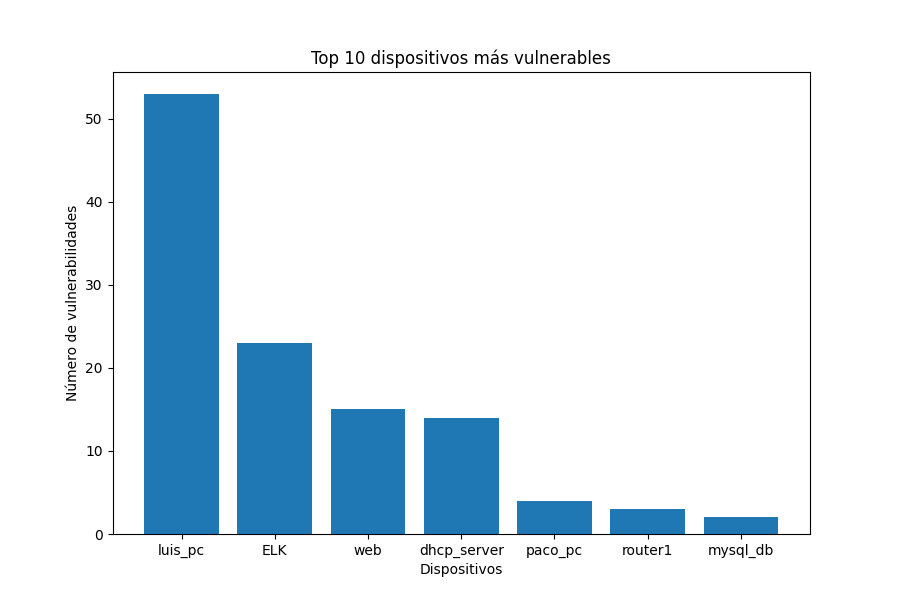
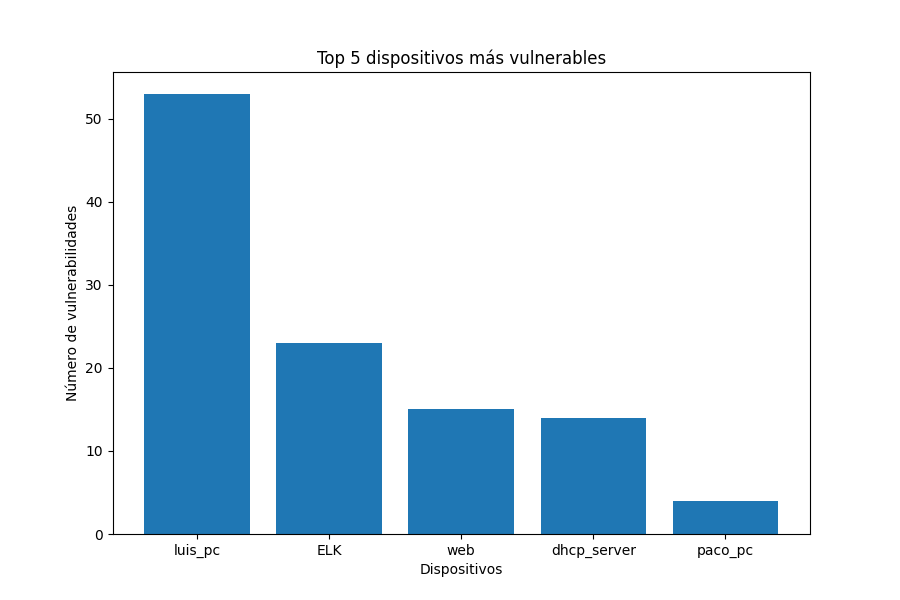
ultimos cambios

Changed region(s): [[0.3422, 0.57, 0.8711, 0.93], [0.1556, 0.15, 0.3111, 0.93], [0.3422, 0.09, 0.6844, 0.12]]

diff --git a/Templates/top_dispositivos.html b/Templates/top_dispositivos.html
@@ -1,11 +1,11 @@
 <!DOCTYPE html>
 <html>
 <head>
-	<title>Top 10 dispositivos más vulnerables</title>
+	<title>Top 5 dispositivos más vulnerables</title>
 </head>
 <body>
-	<h1>Top 10 dispositivos más vulnerables</h1>
-	<p>A continuación se muestra un gráfico de barras con los 10 dispositivos más vulnerables:</p>
-	<img src="/static/top_dispositivos.png" alt="Top 10 dispositivos más vulnerables">
+	<h1>Top 5 dispositivos más vulnerables</h1>
+	<p>A continuación se muestra un gráfico de barras con los 5 dispositivos más vulnerables:</p>
+	<img src="/static/top_dispositivos.png" alt="Top 5 dispositivos más vulnerables">
 </body>
 </html>

diff --git a/Templates/home.html b/Templates/home.html
@@ -12,7 +12,7 @@
 		<li><a href="{{ url_for('top_peligrosos') }}">Top Peligrosos</a></li>
 		<li><a href="{{ url_for('ultimas_vulnerabilidades') }}">Ultimas vulnerabilidades</a></li>
 		<li><a href="{{ url_for('cmi') }}">Cuadro de mandos CMI</a></li>
-
+		<li><a href="{{ url_for('login') }}">Cerrar sesion</a></li>
 	</ul>
 </body>
 </html>

diff --git a/main.py b/main.py
@@ -88,7 +88,6 @@ TRATAMIENTO DE USUARIOS
 def usuarios_bd():
     con = sqlite3.connect('p1.db')
     cursor = con.cursor()
-    cursor.execute("DROP TABLE IF  EXISTS users")
     cursor.execute("CREATE TABLE IF NOT EXISTS users (id INTEGER PRIMARY KEY AUTOINCREMENT,username TEXT UNIQUE NOT NULL,password TEXT NOT NULL)")
     con.close()
 
@@ -146,6 +145,9 @@ dispositivos_y_pred = regr.predict(dispositivos_x_predict)
 print("Mean squared error: %.2f" % mean_squared_error(dispositivos_y_predict, dispositivos_y_pred))
 
 # Plot outputs
+plt.title("Regresion lineal")
+plt.xlabel("Servicios inseguros")
+plt.ylabel("¿Es peligroso?")
 plt.scatter(dispositivos_x_predict, dispositivos_y_predict, color="black")
 plt.plot(dispositivos_x_predict, dispositivos_y_pred, color="blue", linewidth=3)
 plt.xticks(())
@@ -322,7 +324,7 @@ def top_dispositivos():
     con = sqlite3.connect("p1.db")
     cursor = con.cursor()
     cursor.execute(
-        "SELECT dispositivo, servicios_inseguros + vulnerabilidades_detectadas AS servicios_vulnerables FROM analisis GROUP BY dispositivo ORDER BY servicios_vulnerables DESC LIMIT 10")
+        "SELECT dispositivo, servicios_inseguros + vulnerabilidades_detectadas AS servicios_vulnerables FROM analisis GROUP BY dispositivo ORDER BY servicios_vulnerables DESC LIMIT 5")
     dispositivos = cursor.fetchall()
     con.close()
 
@@ -335,7 +337,7 @@ def top_dispositivos():
     plt.bar(x_values, y_values)
 
     # Agregar etiquetas al gráfico
-    plt.title("Top 10 dispositivos más vulnerables")
+    plt.title("Top 5 dispositivos más vulnerables")
     plt.xlabel("Dispositivos")
     plt.ylabel("Número de vulnerabilidades")
 
